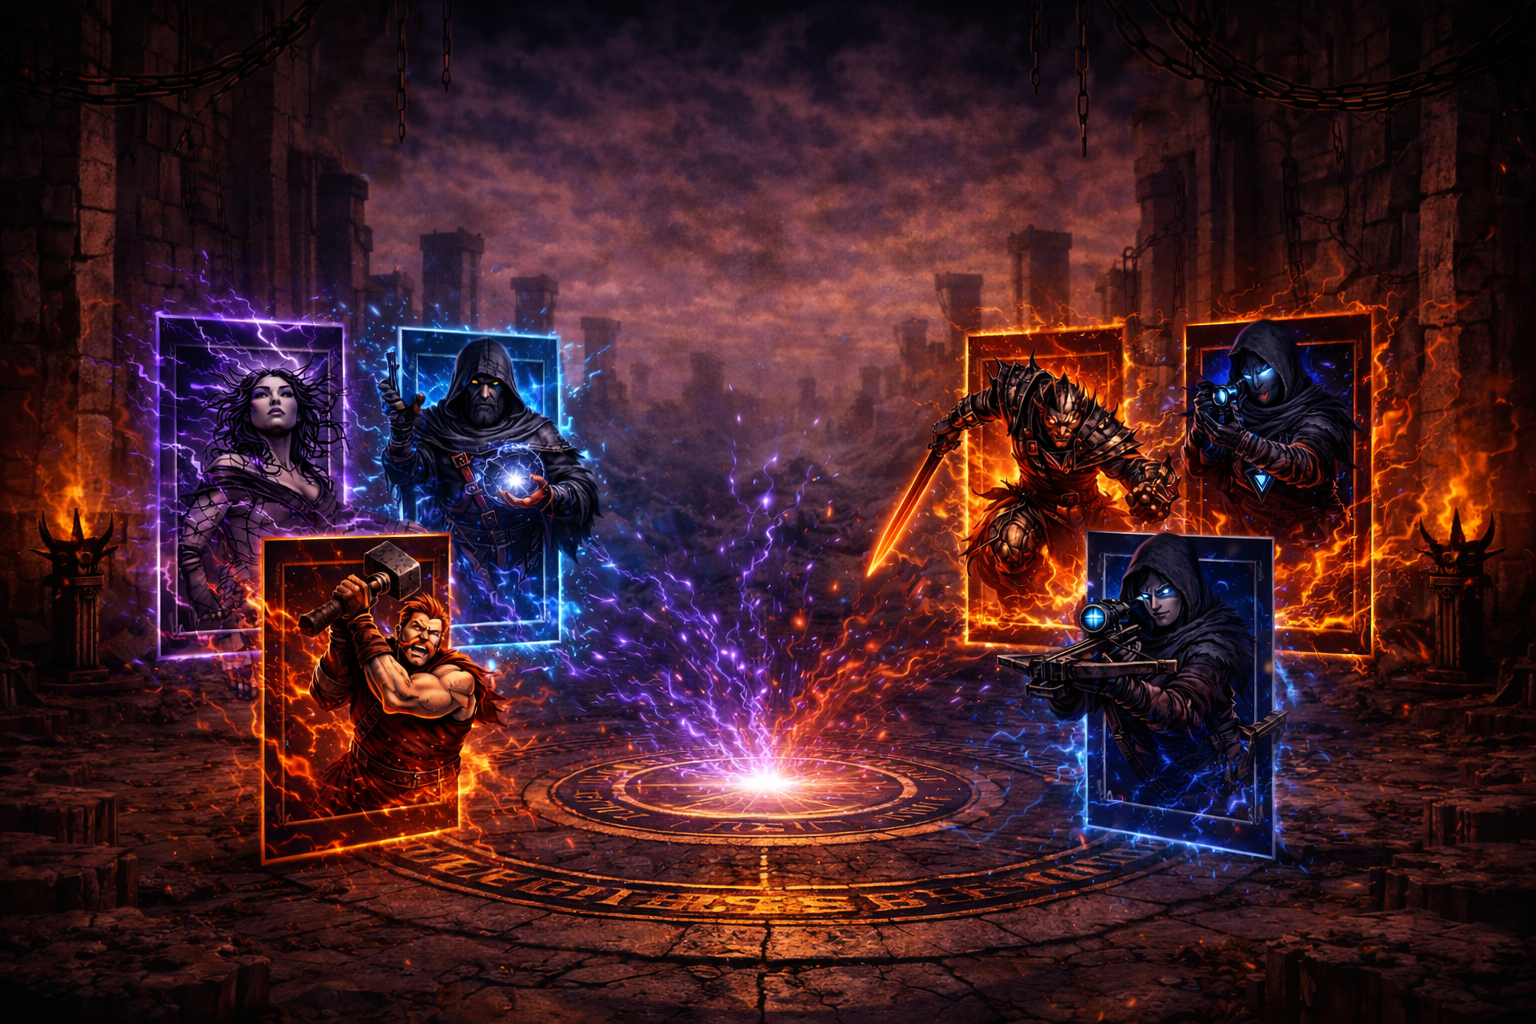
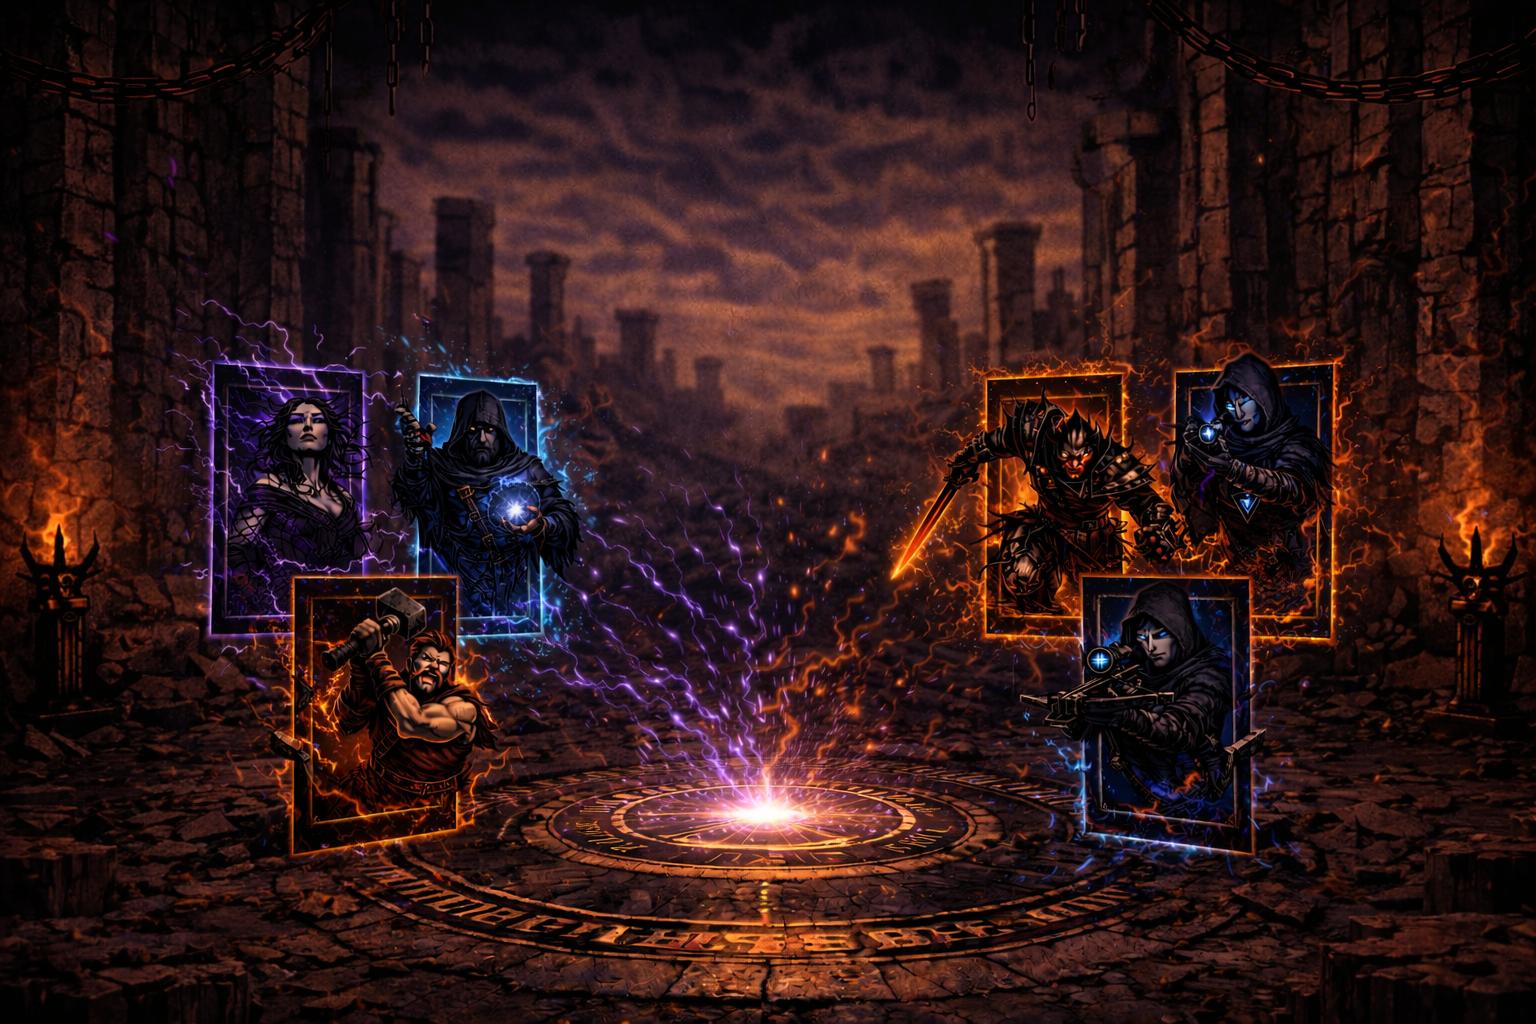
finding ъ

diff --git a/client/src/pages/LandingPage.css b/client/src/pages/LandingPage.css
@@ -175,10 +175,13 @@
   align-items: center;
   justify-content: center;
   padding: 80px 24px 60px;
-  background-image: url('/assets/landing-bg1.png');
-  background-size: cover;
-  background-position: center top;
-  background-repeat: no-repeat;
+  background:
+    radial-gradient(circle at 50% 50%, rgba(168, 62, 54, 0.1), rgba(14, 14, 14, 0.20) 80%),
+    linear-gradient(180deg, rgba(26, 22, 18, 0.1) 0%, rgba(14, 14, 14, 0.1) 100%),
+    url('/assets/landing-bg1.png') center top / cover no-repeat;
+  filter: brightness(0.9) contrast(1.05);
+  background-position: center bottom
+
 }
 
 .lp-hero-overlay {
@@ -186,9 +189,17 @@
   inset: 0;
   background: radial-gradient(
     ellipse at center,
-    rgba(10, 8, 5, 0.9) 0%,
-    rgba(5, 3, 1, 0.7) 100%
+    rgba(10, 8, 5, 0.72) 0%,
+    rgba(5, 3, 1, 0.48) 100%
   );
+  z-index: 0;
+}
+
+.lp-hero-texture {
+  position: absolute;
+  inset: 0;
+  opacity: 0.25;
+  pointer-events: none;
   z-index: 0;
 }
 

diff --git a/client/src/pages/LandingPage.tsx b/client/src/pages/LandingPage.tsx
@@ -18,6 +18,7 @@ const LandingPage = () => {
 
       <section className="lp-hero">
         <div className="lp-hero-overlay" />
+        <div className="lp-hero-texture parchment-texture" />
 
         <div className="lp-hero-content">
           <div className="lp-divider">
